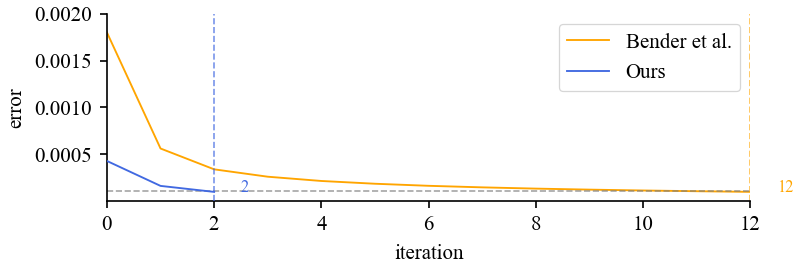
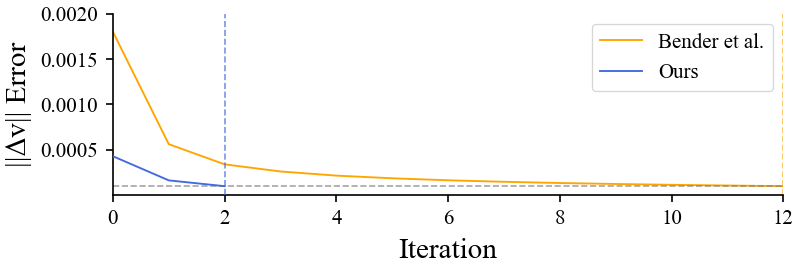
termination condition experiment

diff --git a/plot_stats.py b/plot_stats.py
@@ -10,6 +10,7 @@ from matplotlib.ticker import MaxNLocator, FuncFormatter
 
 plt.rcParams["font.family"] = "serif"
 plt.rcParams["font.serif"] = ["Times New Roman", "Liberation Serif", "DejaVu Serif", "Noto Serif"]
+plt.rcParams["axes.labelsize"] = 14  # slightly larger axis label font size
 
 # File naming: <prefix>-<variant>-<key>.npy
 #   prefix  := arbitrary string (often dt<dt>-tol<tol>-opt<maxOptIter>), may include flags like '-cfl' and '-warmstart'
@@ -412,6 +413,59 @@ def plot_groups_overlay(
     # Multi-mode: combined image with multiple keys → do not convert timestep x to seconds
     multi_mode = (not separate_figs) and (len(selected_keys) > 1)
 
+    # Helper: print the frame index where the difference of per-frame MAX(opt_error)
+    # across compared variants is maximal within current [start, end). Print only once.
+    _printed_error_diff = {"done": False}
+
+    def _maybe_print_max_error_diff():
+        if _printed_error_diff["done"]:
+            return
+        per_frame_max_arrays = []
+        min_frames = None
+        for group, _label in pairs:
+            if ("opt_error" in group) and ("opt_iter" in group):
+                try:
+                    err = np.load(group["opt_error"]).astype(float)
+                    itc = np.load(group["opt_iter"]).astype(int)
+                except Exception:
+                    continue
+                if itc.size == 0:
+                    continue
+                cum = np.concatenate(([0], np.cumsum(itc)))
+                # compute max error per frame
+                frame_max = []
+                for f in range(itc.size):
+                    s_i, e_i = int(cum[f]), int(cum[f + 1])
+                    if e_i <= s_i:
+                        frame_max.append(0.0)
+                    else:
+                        frame_max.append(float(np.max(err[s_i:e_i])))
+                arr = np.asarray(frame_max, dtype=float)
+                per_frame_max_arrays.append(arr)
+                min_frames = arr.size if min_frames is None else min(min_frames, arr.size)
+        if len(per_frame_max_arrays) < 2 or not min_frames:
+            return
+        s = int(start) if (start is not None and int(start) >= 0) else 0
+        e = int(end) if (end is not None and int(end) >= 0) else min_frames
+        s = max(0, min(s, min_frames))
+        e = max(s, min(e, min_frames))
+        if e <= s:
+            return
+        best_idx = s
+        best_diff = -1.0
+        for i in range(s, e):
+            vals = [float(a[i]) for a in per_frame_max_arrays]
+            d = float(max(vals) - min(vals))
+            if d > best_diff:
+                best_diff = d
+                best_idx = i
+        print(best_idx)
+        _printed_error_diff["done"] = True
+
+    # If we're in multi-mode, print once here
+    if multi_mode:
+        _maybe_print_max_error_diff()
+
     def _plot_one_key(ax, key: str):
         use_log = bool(ylog)
         if use_log:
@@ -541,7 +595,6 @@ def plot_groups_overlay(
                         if idxs.size > 0:
                             k = int(idxs[0])
                             ax.axvline(k, color=color, ls="--", lw=0.8, alpha=0.7, zorder=z+1)
-                            ax.annotate(f"{k}", xy=(k, arr[k]), xytext=(k+0.5, arr[k]), color=color, fontsize=8)
                 else:
                     # Draw only real iterations; no padding
                     ax.plot(x_master[:real_len], y_disp[:real_len], lw=0.9, label=label, color=color, ls="-", zorder=z)
@@ -551,11 +604,10 @@ def plot_groups_overlay(
                         if idxs.size > 0:
                             k = int(idxs[0])
                             ax.axvline(k, color=color, ls="--", lw=0.8, alpha=0.7, zorder=z+1)
-                            ax.annotate(f"{k}", xy=(k, arr[k]), xytext=(k+0.5, arr[k]), color=color, fontsize=8)
                 any_line = True
                 last_x = x_master
-            ax.set_xlabel("iteration")
-            ax.set_ylabel("error")
+            ax.set_xlabel("Iteration")
+            ax.set_ylabel("||Δv|| Error")
             if any_line and (last_x is not None) and (getattr(last_x, "size", 0) > 0):
                 ax.set_xlim(left=float(last_x[0]), right=float(last_x[-1]))
             if not use_log:
@@ -663,8 +715,11 @@ def plot_groups_overlay(
             else:
                 if key not in group:
                     continue
-                # For error-series, expand to per-iteration timeline with x in time (ms)
+                # For error-series, expand to per-iteration timeline with x in time (s)
                 if "error" in key:
+                    # When plotting opt_error as its own key, also print max per-frame error-max difference once
+                    if key == "opt_error" and not multi_mode:
+                        _maybe_print_max_error_diff()
                     # Select per-timestep iteration counts
                     counts = None
                     if key == "pcg_error" and ("pcg_iter" in group):
@@ -710,7 +765,7 @@ def plot_groups_overlay(
                         for j in range(c):
                             times.append(t_acc + (j + 1) * inc)
                         t_acc += float(elapsed_ms[f])
-                    x_plot = np.asarray(times, dtype=float)
+                    x_plot = np.asarray(times, dtype=float) / 1000.0  # convert ms -> s
                     y_plot = err_flat
                 else:
                     # Non-error series: use natural series with slicing
@@ -752,9 +807,9 @@ def plot_groups_overlay(
             ax.set_xlabel("iteration")
         else:
             ax.set_xlabel(_xlabel_for_key(key))
-        # Override for error-series plotted in time (ms)
+        # Override for error-series plotted in time (s)
         if key in ("opt_error", "pcg_error"):
-            ax.set_xlabel("time (ms)")
+            ax.set_xlabel("time (s)")
         if key == "iter_decay":
             ax.set_ylabel("Error (timestep {} )".format(int(iter_decay_frame) if iter_decay_frame is not None else "?"))
         else:
